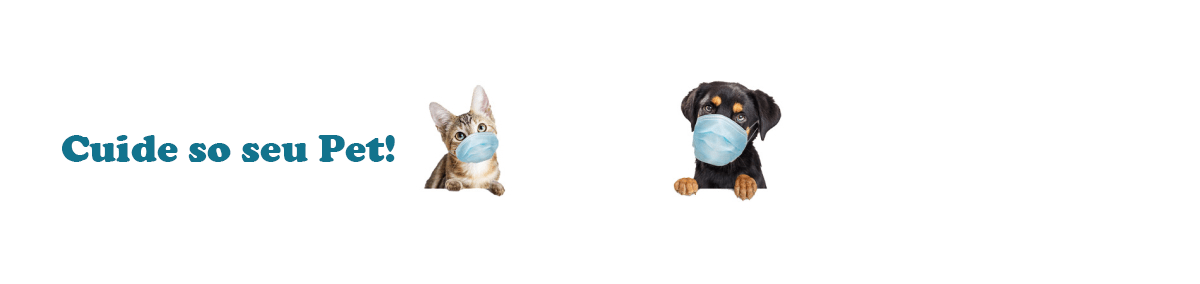
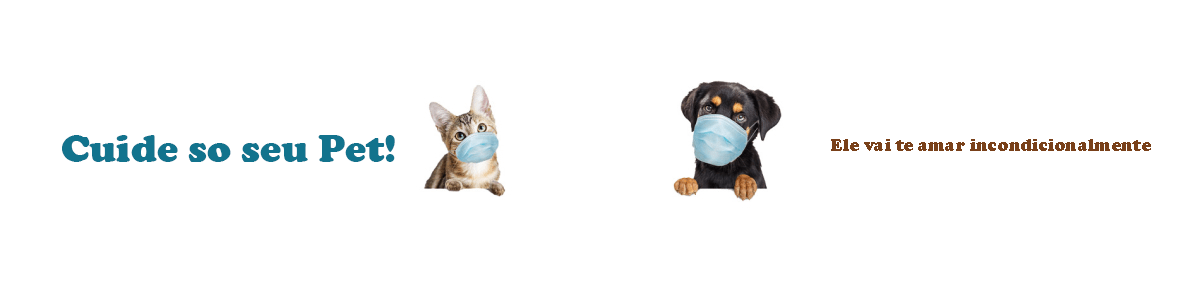
mudança destaque
gato e dog de mascara

Changed region(s): [[0.6783, 0.4789, 0.9558, 0.5352]]

diff --git a/index.html b/index.html
@@ -66,7 +66,7 @@
         <img src="compressjpeg/dog-fundoamarelo-min.png" class="d-block w-100" alt="...">
       </div>
       <div class="carousel-item">
-        <img src="compressjpeg/dog-cat-mascara-min.png" class="d-block w-100" alt="...">
+        <img src="compressjpeg/destaque-mascara.jpg" class="d-block w-100" alt="...">
       </div>
     </div>
     <button class="carousel-control-prev" type="button" data-bs-target="#carouselExampleControls" data-bs-slide="prev">
